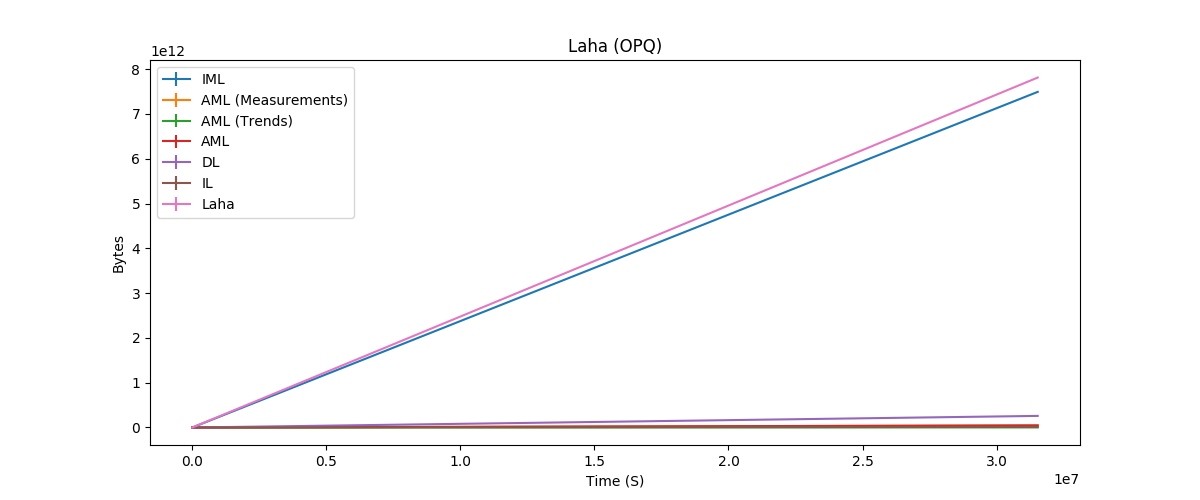
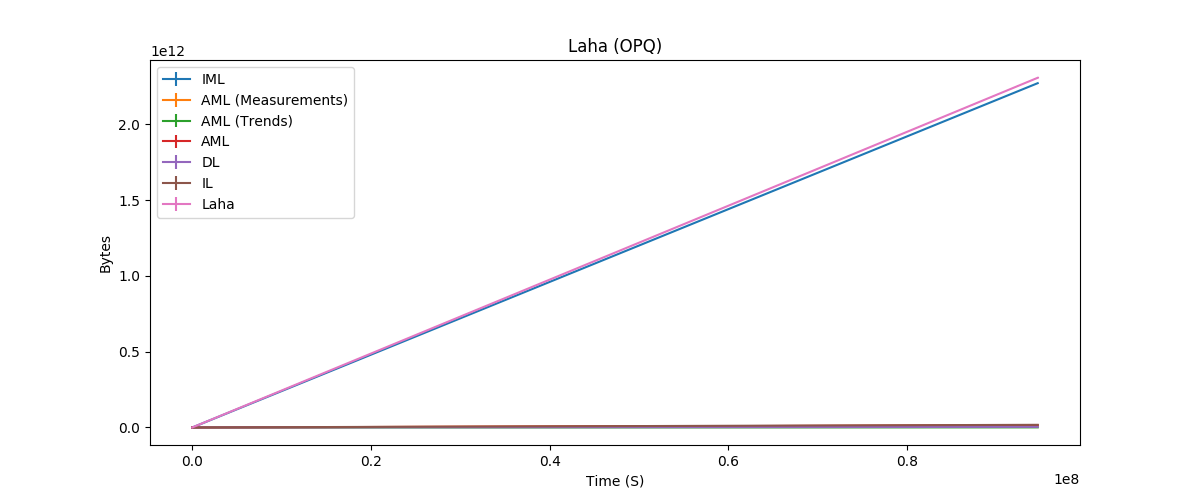
Update plots for unbounded data.

diff --git a/plotting/plots.py b/plotting/plots.py
@@ -415,10 +415,10 @@ def gb(b: float) -> float:
 
 def plot_laha_opq():
     plt.figure(figsize=(12, 5))
-    x_values = np.arange(1, S_IN_YEAR, step=S_IN_DAY)
+    x_values = np.arange(1, S_IN_YEAR * 3, step=S_IN_DAY)
 
     # IML
-    mu_n_sens = 9.9
+    mu_n_sens = 1.0
     sigma_n_sens = 0.7
     s_samp = 2
     sr = 12000
@@ -430,7 +430,7 @@ def plot_laha_opq():
     # AML
     s_meas = 145.0
     r_meas = 1.0 / 1.0
-    s_trend = 324.0
+    s_trend = 365.0
     r_trend = 1.0 / 60.0
     aml_size_meas = s_meas * r_meas * mu_n_sens * x_values
     aml_size_trend = s_trend * r_trend * mu_n_sens * x_values
@@ -445,7 +445,7 @@ def plot_laha_opq():
     plt.errorbar(x_values, aml_size_total, yerr=aml_size_e, label="AML")
 
     # DL
-    mu_dr = 8211.741437354178
+    mu_dr = 40.69
     sigma_dr = 185544.81743550362
 
     dl_size = mu_dr * x_values
@@ -453,7 +453,7 @@ def plot_laha_opq():
     plt.errorbar(x_values, dl_size, yerr=dl_size_e, label="DL")
 
     # IL
-    mu_il = 438.57850995956863
+    mu_il = 184.41
     sigma_il = 6288.484706127778
 
     il_size = mu_il * x_values
@@ -538,10 +538,10 @@ def plot_laha_opq_no_iml():
 
 def plot_laha_opq_pie():
     plt.figure(figsize=(12, 5))
-    x_values = np.arange(1, S_IN_YEAR, step=S_IN_DAY)
+    x_values = np.arange(1, S_IN_YEAR * 3, step=S_IN_DAY)
 
     # IML
-    mu_n_sens = 9.9
+    mu_n_sens = 1.0
     sigma_n_sens = 0.7
     s_samp = 2
     sr = 12000
@@ -551,16 +551,16 @@ def plot_laha_opq_pie():
     # AML
     s_meas = 145.0
     r_meas = 1.0 / 1.0
-    s_trend = 324.0
+    s_trend = 365.0
     r_trend = 1.0 / 60.0
     aml_size_meas = s_meas * r_meas * mu_n_sens * x_values
     aml_size_trend = s_trend * r_trend * mu_n_sens * x_values
 
     # DL
-    mu_dr = 8211.741437354178
+    mu_dr = 40.69
     dl_size = mu_dr * x_values
     # IL
-    mu_il = 438.57850995956863
+    mu_il = 184.41
     il_size = mu_il * x_values
 
     plt.subplot(1, 2, 1)
@@ -581,6 +581,119 @@ def plot_laha_opq_pie():
     plt.savefig("../src/figures/plot_laha_opq_pie.png")
     plt.show()
 
+def plot_laha_lokahi_pie():
+    plt.figure(figsize=(12, 5))
+    x_values = np.arange(1, S_IN_YEAR * 3, step=S_IN_DAY)
+
+    # IML
+    mu_n_sens = 1.0
+    sigma_n_sens = 0.0
+    s_samp = 4
+    sr = 8000
+
+    iml_size = s_samp * sr * mu_n_sens * x_values
+
+    # AML
+    # s_meas = 0
+    # r_meas = 1.0 / 1.0
+    s_trend = 2471.0
+    r_trend = 1.0 / 32.768
+    # aml_size_meas = s_meas * r_meas * mu_n_sens * x_values
+    aml_size_trend = s_trend * r_trend * mu_n_sens * x_values
+
+    # DL
+    mu_dr = 402.81624834955454
+    dl_size = mu_dr * x_values
+    # IL
+    mu_il = 37.11652361890925
+    il_size = mu_il * x_values
+
+    plt.subplot(1, 2, 1)
+    labels = ["IML", "AML", "DL", "IL"]
+    values = [gb(iml_size[-1]), gb(aml_size_trend[-1]), gb(dl_size[-1]), gb(il_size[-1])]
+    total = sum(values)
+    plt.pie(values, labels=labels, autopct=lambda p: "%.2f gb" % (p * total / 100.0))
+    plt.title("Laha (Lokahi) w/ IML")
+
+    plt.subplot(1, 2, 2)
+    labels = ["AML (T)", "DL", "IL"]
+    values = [ gb(aml_size_trend[-1]), gb(dl_size[-1]), gb(il_size[-1])]
+    total = sum(values)
+    plt.pie(values, labels=labels, autopct=lambda p: "%.2f gb" % (p * total / 100.0))
+
+    plt.title("Laha (Lokahi) w/o IML")
+
+    plt.savefig("../src/figures/plot_laha_lokahi_pie.png")
+    plt.show()
+
+
+def plot_laha_lokahi():
+    plt.figure(figsize=(12, 5))
+    x_values = np.arange(1, S_IN_YEAR * 3, step=S_IN_DAY)
+
+    # IML
+    mu_n_sens = 1.0
+    sigma_n_sens = 0.0
+    s_samp = 4
+    sr = 8000
+
+    iml_size = s_samp * sr * mu_n_sens * x_values
+    iml_error = (sigma_n_sens / np.sqrt(x_values)) * np.abs(s_samp * sr * x_values)
+    plt.errorbar(x_values, iml_size, yerr=iml_error, label="IML")
+
+    # AML
+    # s_meas = 145.0
+    # r_meas = 1.0 / 1.0
+    s_trend = 2471
+    r_trend = 1.0 / 32.768
+    # aml_size_meas = s_meas * r_meas * mu_n_sens * x_values
+    aml_size_trend = s_trend * r_trend * mu_n_sens * x_values
+    aml_size_total = aml_size_trend
+
+    # aml_size_meas_e = (sigma_n_sens / np.sqrt(x_values)) * np.abs(s_meas * r_meas * x_values)
+    aml_size_trends_e = (sigma_n_sens / np.sqrt(x_values)) * np.abs(s_trend * r_trend * x_values)
+    aml_size_e = aml_size_trends_e
+
+    # plt.errorbar(x_values, aml_size_meas, yerr=aml_size_meas_e, label="AML (Measurements)")
+    plt.errorbar(x_values, aml_size_trend, yerr=aml_size_trends_e, label="AML (Trends)")
+    plt.errorbar(x_values, aml_size_total, yerr=aml_size_e, label="AML")
+
+    # DL
+    mu_dr = 402.81624834955454
+    sigma_dr = 0
+
+    dl_size = mu_dr * x_values
+    dl_size_e = (sigma_dr / np.sqrt(x_values)) * np.abs(x_values)
+    plt.errorbar(x_values, dl_size, yerr=dl_size_e, label="DL")
+
+    # IL
+    mu_il = 37.11652361890925
+    sigma_il = 0.0
+
+    il_size = mu_il * x_values
+    il_size_e = (sigma_il / np.sqrt(x_values)) * np.abs(x_values)
+    plt.errorbar(x_values, il_size, yerr=il_size_e, label="IL")
+
+    # Total
+    laha_size = iml_size + aml_size_total + dl_size + il_size
+    laha_size_e = np.sqrt(iml_error**2 + aml_size_e**2 + dl_size_e**2 + il_size_e**2)
+    plt.errorbar(x_values, laha_size, yerr=laha_size_e, label="Laha")
+
+    print("iml", gb(iml_size[-1]), gb(iml_error[-1]))
+    # print("aml meas", gb(aml_size_meas[-1]), gb(aml_size_meas_e[-1]))
+    print("aml trend", gb(aml_size_trend[-1]), "%f" % gb(aml_size_trends_e[-1]))
+    print("aml total", gb(aml_size_total[-1]), gb(aml_size_e[-1]))
+    print("dl", gb(dl_size[-1]), gb(dl_size_e[-1]))
+    print("il", gb(il_size[-1]), gb(il_size_e[-1]))
+    print("total", gb(laha_size[-1]), gb(laha_size_e[-1]))
+
+    plt.title("Laha (Lokahi)")
+    plt.xlabel("Time (S)")
+    plt.ylabel("Bytes")
+
+    plt.legend()
+    plt.savefig("../src/figures/plot_laha_lokahi.png")
+    plt.show()
 
 if __name__ == "__main__":
     # sample_sizes = [1, 2, 4, 8, 16]
@@ -597,8 +710,10 @@ if __name__ == "__main__":
     # plot_dl_opq_no_err()
     # plot_dl_opq_err()
     # plot_iml_average()
-    plot_dl_opq_avg()
-    plot_il_opq_avg()
-    plot_laha_opq()
-    plot_laha_opq_no_iml()
-    plot_laha_opq_pie()
+    # plot_dl_opq_avg()
+    # plot_il_opq_avg()
+    # plot_laha_opq()
+    # plot_laha_opq_no_iml()
+    # plot_laha_opq_pie()
+    # plot_laha_lokahi_pie()
+    plot_laha_lokahi()

diff --git a/src/evaluation.tex b/src/evaluation.tex
@@ -309,12 +309,12 @@ Let's next compare the estimated sizes of the DL for the OPQ and Lokahi networks
 \begin{table}[H]
 	\centering
 	\caption{Estimated $DR$}
-	\begin{tabularx}{\textwidth}{llllll}
+	\begin{tabularx}{\textwidth}{lllll}
 		\toprule
-		\textbf{Network} & $\bm{\mu DR}$ & $\bm{\sigma DR}$ & \textbf{Data/Day} & \textbf{Data/Week} & \textbf{Data/Year} \\
+		\textbf{Network} & $\bm{\mu DR}$ & \textbf{Data/Day} & \textbf{Data/Week} & \textbf{Data/Year} \\
 		\midrule
-		OPQ & 8211.7 & 185544.8 & 0.71 GB & 4.97 GB & 258.96 GB \\
-		Lokahi & 406.48 & 2199.26 & 25.11 MB & 245.84 & 12.82 GB \\
+		OPQ & 40.69 & 3.51 MB & 24.77 MB & 1.29 GB \\
+		Lokahi & 402.82 & 34.80 MB & 243.63 MB & 12.70 GB \\
 		\bottomrule
 	\end{tabularx}
 	\label{table:estimated_mu_dr}
@@ -359,10 +359,10 @@ Let us next compare the estimated sizes of the IL for the OPQ and Lokahi network
 	\caption{Estimated $IR$}
 	\begin{tabularx}{\textwidth}{llllll}
 		\toprule
-		\textbf{Network} & $\bm{\mu DR}$ & $\bm{\sigma DR}$ & \textbf{Data/Day} & \textbf{Data/Week} & \textbf{Data/Year} \\
+		\textbf{Network} & $\bm{\mu DR}$ & \textbf{Data/Day} & \textbf{Data/Week} & \textbf{Data/Year} \\
 		\midrule
-		OPQ & 438.58 & 6288.48 & 0.04 GB & 0.27 GB & 13.83 GB \\
-		Lokahi & 37.12 & 12004.18 & 3.21 MB & 22.45 MB & 1.17 GB \\
+		OPQ & 184.41 & 15.93 MB & 111.53 MB & 5.82 GB \\
+		Lokahi & 37.12 & 3.21 MB & 22.45 MB & 1.17 GB \\
 		\bottomrule
 	\end{tabularx}
 	\label{table:estimated_mu_ir}
@@ -399,19 +399,19 @@ First, let's look at the size of Laha with parameters estimated from OPQ. The es
 \begin{table}[H]
 	\centering
 	\caption{OPQ Estimated Parameters}
-	\begin{tabularx}{\textwidth}{lll}
+	\begin{tabularx}{\textwidth}{ll}
 		\toprule
-		\textbf{Field} & \textbf{Mean} & \textbf{Stddev} \\
+		\textbf{Field} & \textbf{Mean} \\
 		\midrule
-		$S_{SAMP}$ & 2 & 0.0 \\
-		$SR$ & 12000 & 0.0 \\
-		$S_{MEASUREMENT}$ & 145 & 0.0 \\
-		$R_{MEASUREMENT}$ & 1 & 0.0 \\
-		$S_{TREND}$ & 324 & 0.0 \\
-		$R_{TREND}$ & $\frac{1}{60}$ & 0.0 \\
-		$\mu N_{SEN}$ & 9.9 & 0.7 \\
-		$\mu DR$ & 8211.7 & 185544.8 \\
-		$\mu IR$ & 438.5 & 6288.4 \\
+		$S_{SAMP}$ & 2 \\
+		$SR$ & 12000 \\
+		$S_{MEASUREMENT}$ & 145 \\
+		$R_{MEASUREMENT}$ & $\frac{1}{1}$ \\
+		$S_{TREND}$ & 365  \\
+		$R_{TREND}$ & $\frac{1}{60}$  \\
+		$\mu N_{SEN}$ & 1  \\
+		$\mu DR$ & 40.69  \\
+		$\mu IR$ & 184.41 \\
 		\bottomrule
 	\end{tabularx}
 	\label{table:estimated_laha_opq}
@@ -446,21 +446,80 @@ Finally, we summarize the results in Table~\ref{table:summarized_laha_results_op
 \begin{table}[H]
 	\centering
 	\caption{Summarized Laha Results (OPQ)}
-	\begin{tabularx}{\textwidth}{lll}
+	\begin{tabularx}{\textwidth}{ll}
 		\toprule
-		\textbf{Laha Level} & \bm{$\mu Size$} \textbf{GB} & \bm{$\delta Size$} \textbf{GB} \\
+		\textbf{Laha Level} & \bm{$\mu Size$} \textbf{GB} \\
 		\midrule
-		IML & 6978.36 & 0.08 \\
-		AML (Measurements) & 42.16 & 0.0005 \\
-		AML (Trends) & 1.57 & 0.00002 \\
-		AML (Total) & 43.73 & 0.0005 \\
-		DL & 383.69 & 1.05 \\
-		IL & 1.44 & 0.01 \\
-		PL & NA & NA \\
-		Laha (Total) & 7407.22 & 1.05 \\
+		IML & 2114.65 \\
+		AML (Measurements) & 12.78 \\
+		AML (Trends) & 0.54  \\
+		AML (Total) & 13.31  \\
+		DL & 3.58  \\
+		IL & 16.25  \\
+		PL & NA  \\
+		Laha (Total) & 2147.8  \\
 		\bottomrule
 	\end{tabularx}
 	\label{table:summarized_laha_results_opq}
+\end{table}
+
+Let's next perform the same evaluation, but for the Lokahi network. Table~\ref{table:estimated_laha_lokahi} provides the estimated parameters gathered from the Lokahi deployment. Since we're examining upper bounds, we will only use one of Lokahi's sampling rates (the highest 8000 Hz) in the evaluation.
+
+\begin{table}[H]
+	\centering
+	\caption{Lokahi Estimated Parameters}
+	\begin{tabularx}{\textwidth}{ll}
+		\toprule
+		\textbf{Field} & \textbf{Mean} \\
+		\midrule
+		$S_{SAMP}$ & 4 \\
+		$SR$ & 8000 \\
+		$S_{TREND}$ & 2471  \\
+		$R_{TREND}$ & $\frac{1}{32.768}$  \\
+		$\mu N_{SEN}$ & 1  \\
+		$\mu DR$ & 402.82  \\
+		$\mu IR$ & 37.11 \\
+		\bottomrule
+	\end{tabularx}
+	\label{table:estimated_laha_lokahi}
+\end{table}
+
+Figure~\ref{fig:plot_lala_lokahi} shows the estimated unbounded Laha growth for Lokahi.
+
+\begin{figure}[H]
+	\centering
+	\includegraphics[width=\linewidth]{figures/plot_laha_lokahi.png}
+	\caption{Estimated Laha (Lokahi)}
+	\label{fig:plot_lala_lokahi}
+\end{figure}
+
+Figure~\ref{fig:plot_lala_lokahi_pie} shows the makeup of unbounded data within Laha for Lokahi.
+
+\begin{figure}[H]
+	\centering
+	\includegraphics[width=\linewidth]{figures/plot_laha_lokahi_pie.png}
+	\caption{Estimated Laha (Lokahi)}
+	\label{fig:plot_lala_lokahi_pie}
+\end{figure}
+
+Finally, we summarize the results in Table~\ref{table:summarized_laha_results_lokahi}.
+
+\begin{table}[H]
+	\centering
+	\caption{Summarized Laha Results (OPQ)}
+	\begin{tabularx}{\textwidth}{ll}
+		\toprule
+		\textbf{Laha Level} & \bm{$\mu Size$} \textbf{GB} \\
+		\midrule
+		IML & 2819.54 \\
+		AML (Total) & 6.64  \\
+		DL & 35.49  \\
+		IL & 3.27  \\
+		PL & NA  \\
+		Laha (Total) & 2864.95  \\
+		\bottomrule
+	\end{tabularx}
+	\label{table:summarized_laha_results_lokahi}
 \end{table}
 
 \subsubsection{Evaluation of TTL}
